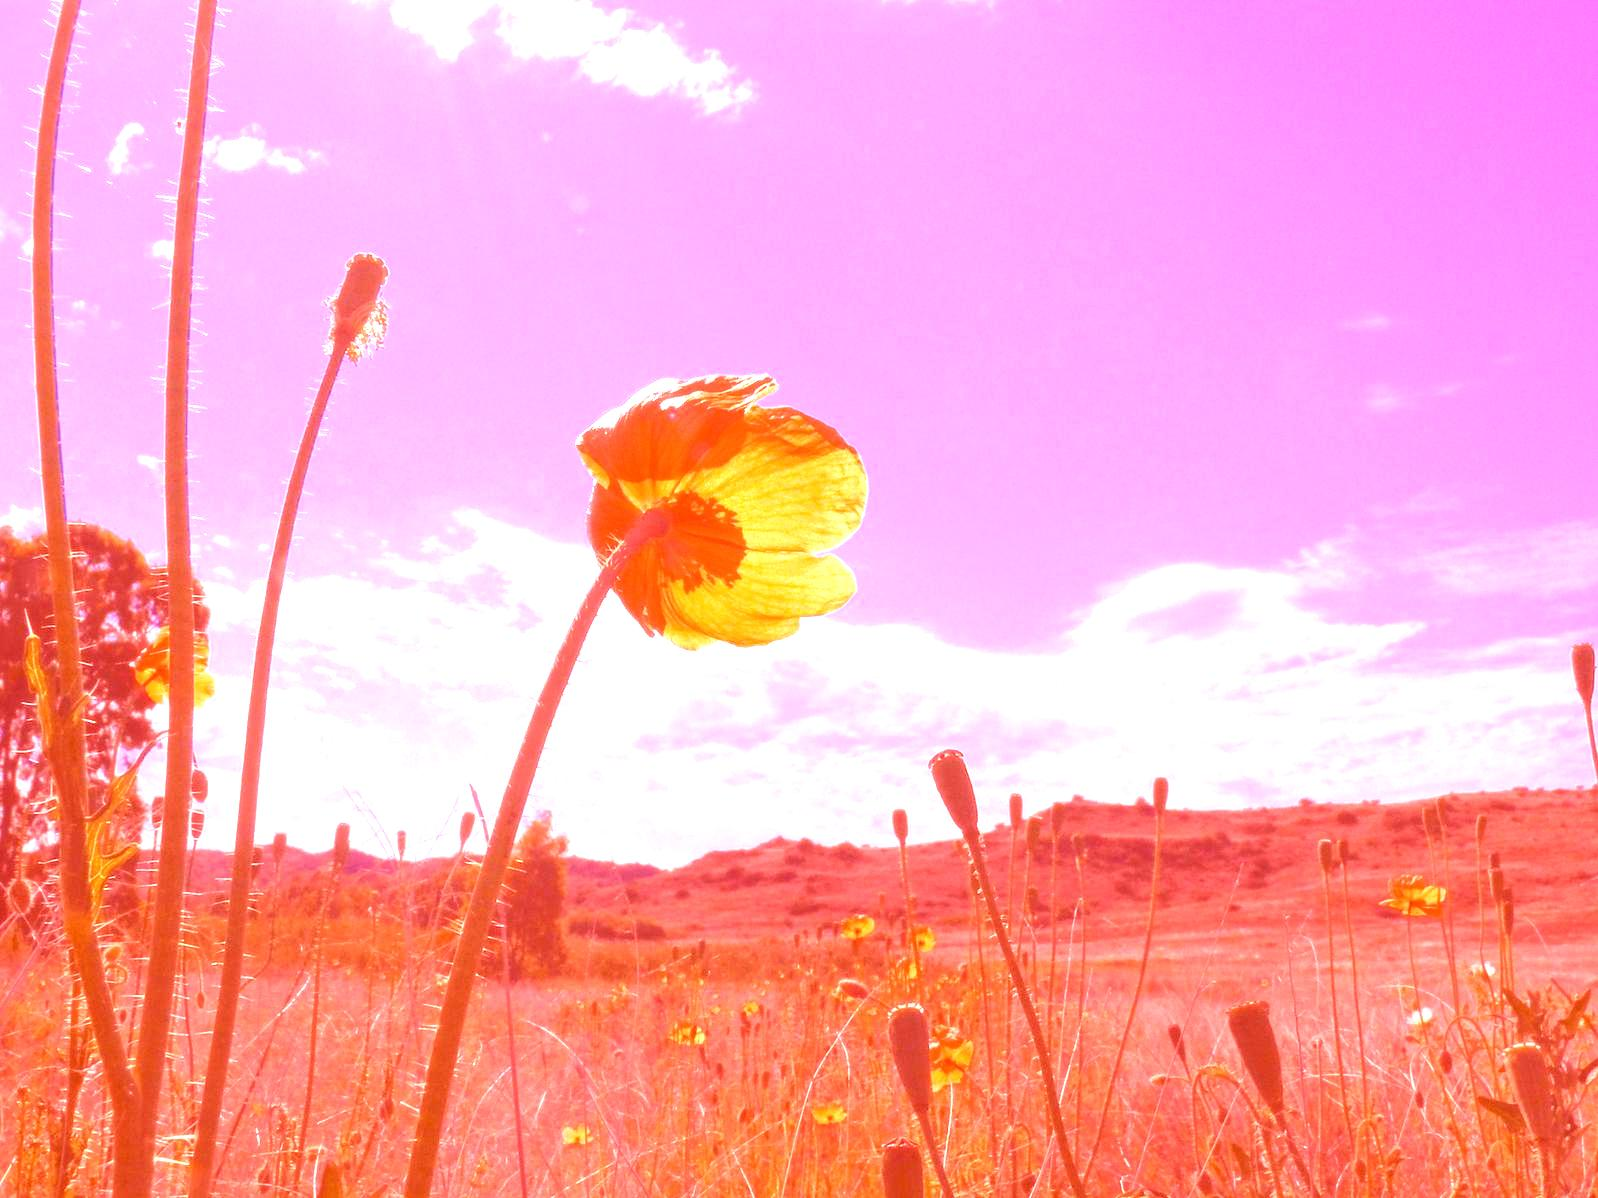
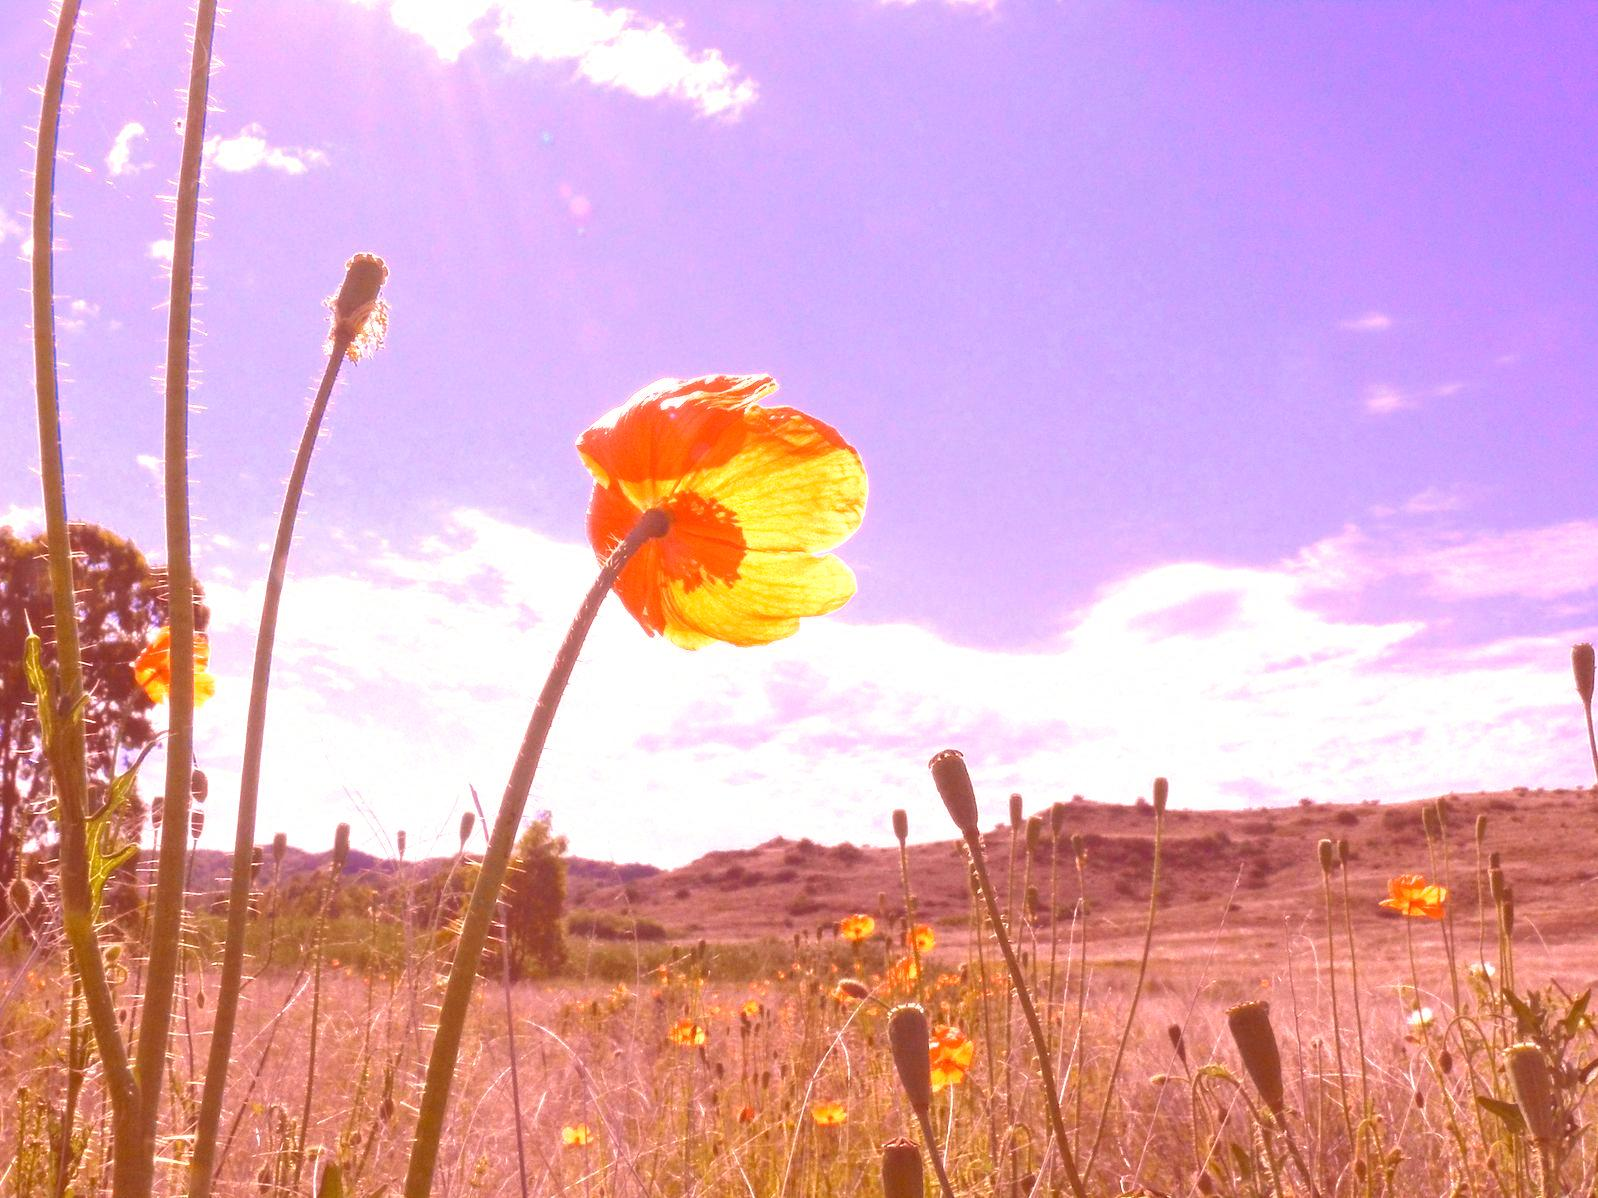
Finished

diff --git a/ImageFilter.py b/ImageFilter.py
@@ -96,12 +96,12 @@ def Grey():
 #    Your Filters with User Input   # filter 2
 #####################################
 
-#Uses user input to change 1 color by a certain amount
+#Uses user input to change 1 color by a certain amount this gives the illusion that the image is tinted
 def Tinted():
   print("Tinted")
   colorf2 = input("Which color do you want to change?(r/g/b) ")
   while colorf2 != "r" and colorf2 != "g" and colorf2 != "b":
-    colorf2 = input("Please enter r/g/b for which color you want to change:  ")
+    colorf2 = input("Please enter r/g/b for which color you want to change: ")
   changef2 = int(input("How much do you want to change it by?(-255, 255) "))
   # Creates an ImageCore Object from original image
   pixels = img.getdata()
@@ -126,24 +126,26 @@ def Tinted():
     newr = r
     newg = g
     newb = b
-    if colorf2 == "r":
-      newr = r + changef2
-      if newr > 255:
-        newr = 255
-      if newr < 0:
-        newr = 0
-    if colorf2 == "g":
-      newg = g + changef2
-      if newg > 255:
-        newg = 255
-      if newg < 0:
-        newg = 0
-    if colorf2 == "b":
-      newb = b + changef2
-      if newb > 255:
-        newb = 255
-      if newb < 0:
-        newb = 0
+    #This is where it adds the certain amount you inputted to the color chosen
+    match colorf2:
+      case "r":
+        newr = r + changef2
+        if newr > 255:
+          newr = 255
+        if newr < 0:
+          newr = 0
+      case "g":
+        newg = g + changef2
+        if newg > 255:
+          newg = 255
+        if newg < 0:
+          newg = 0
+      case "b":
+        newb = b + changef2
+        if newb > 255:
+          newb = 255
+        if newb < 0:
+          newb = 0
     # Assign new red, green and blue components to pixel
     # at that specific location
     new_pixels[location] = (newr, newg, newb)
@@ -205,7 +207,8 @@ def adjust_brightness():
  
 apply1 = input("Which filters would you like to put onto this image(g = gray, t = tinted, b = brightness, a = all)")
 apply2 = "null"
-add = input("Would you like to add another filter to this image(y/n)")
+if apply1 != "a":
+  add = input("Would you like to add another filter to this image(y/n)")
 if add != "n":
   apply2 = input("Which other filters would you like to put onto this image(g = gray, t = tinted, b = brightness)")
 match apply1:
@@ -245,6 +248,7 @@ match apply2:
 
 
 # Creates the four filter images and saves them to our files
+"""
 img = Image.open('image.jpg')
 b = Grey()
 b.save("Grey.jpg")
@@ -252,7 +256,7 @@ c = Tinted()
 c.save("Tinted.jpg")
 d = adjust_brightness()
 d.save("adjust_brightness.jpg")
- 
+"""
 # Image filter names for use below
 f1 = "Grey"
 f2 = "Tinted"
